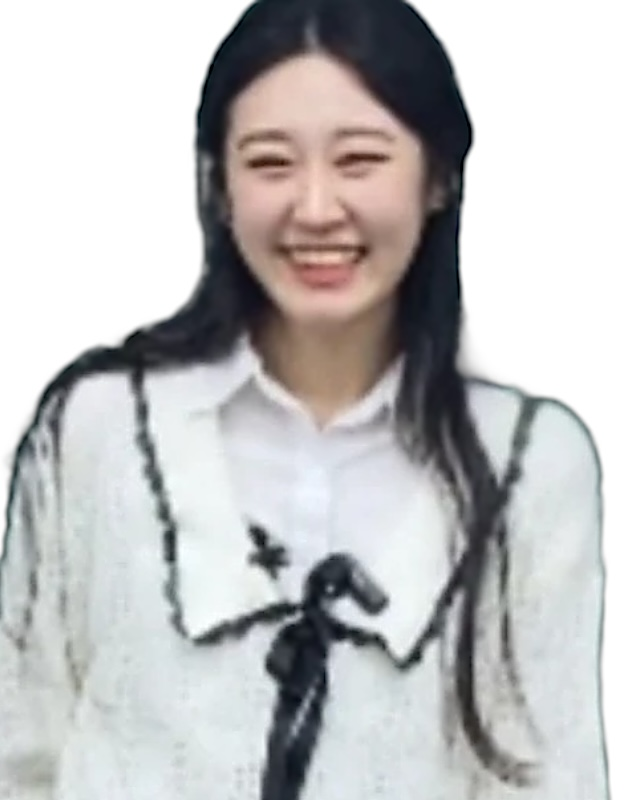
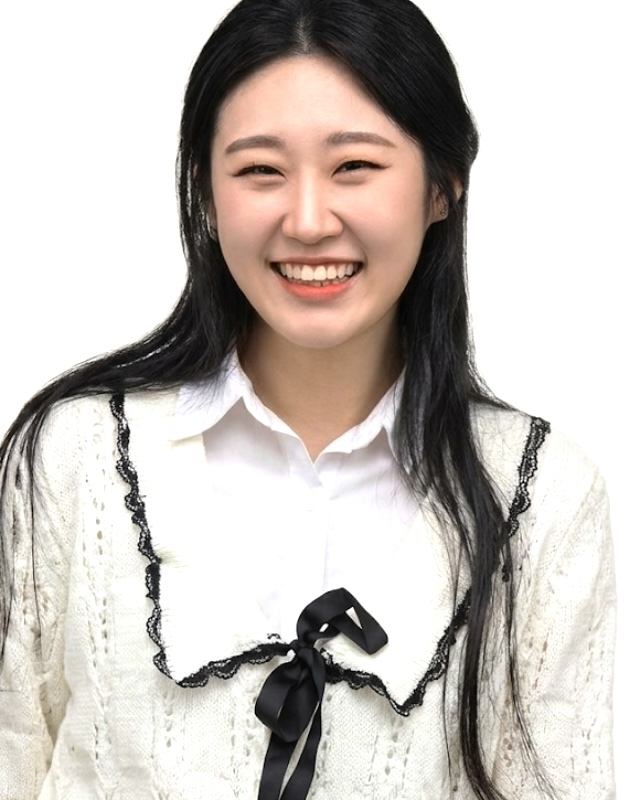
문지현 사진: AI 보정본(선명·흰 배경)으로 교체

diff --git a/index.html b/index.html
@@ -610,7 +610,7 @@ const T=[
 ];
 const list=document.getElementById('tlist');
 /* 사진: img/teachers/이름.jpg 를 PHOTO 에 적으면 사진, 없으면 성 한 글자 */
-const PHOTO={};['류성훈','이태형','장의순','김호랑','고연승','권현석','정민','홍진수','최정윤','이예섭','정지만','김현중','이창환','최현재','김경한','문지현','박정은'].forEach(n=>PHOTO[n]='img/teachers/'+n+'.jpg?v=1123e');
+const PHOTO={};['류성훈','이태형','장의순','김호랑','고연승','권현석','정민','홍진수','최정윤','이예섭','정지만','김현중','이창환','최현재','김경한','문지현','박정은'].forEach(n=>PHOTO[n]='img/teachers/'+n+'.jpg?v=1123f');
 /* 줄 순서: 1줄 국어 · 2줄 수학 · 3줄 영어 · 4줄 탐구 · 논술 (11/19 사장님 요청)
    같은 과목 안에서는 (탐구는 통합과학·통합사회·사탐 순으로 묶고) 사진 있는 강사 먼저, 나머지는 배열 순서 그대로 */
 const SUBJ=['국어','수학','영어','탐구','논술'];
